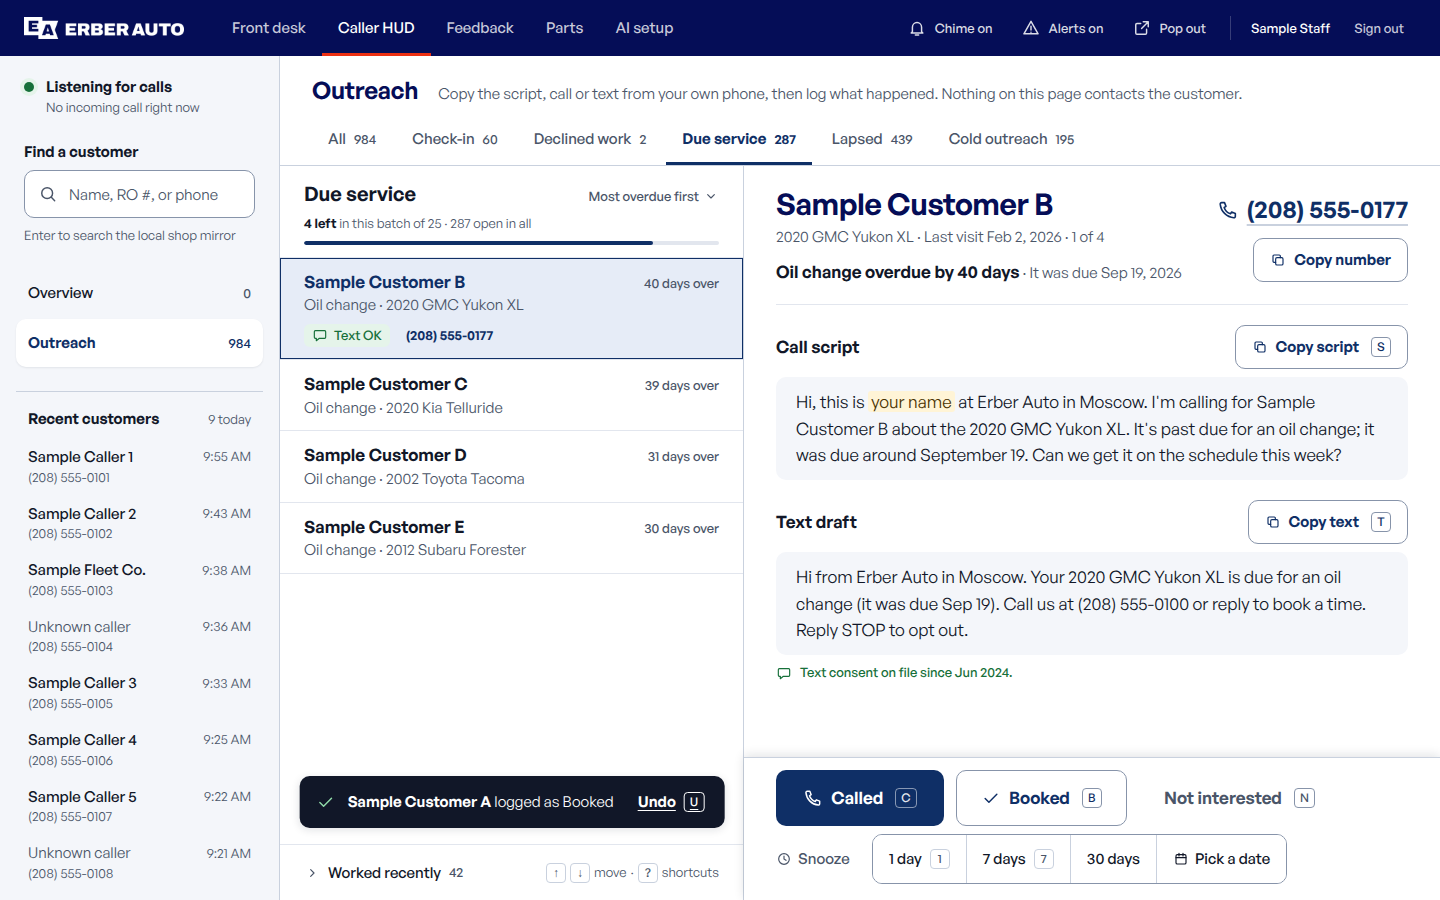
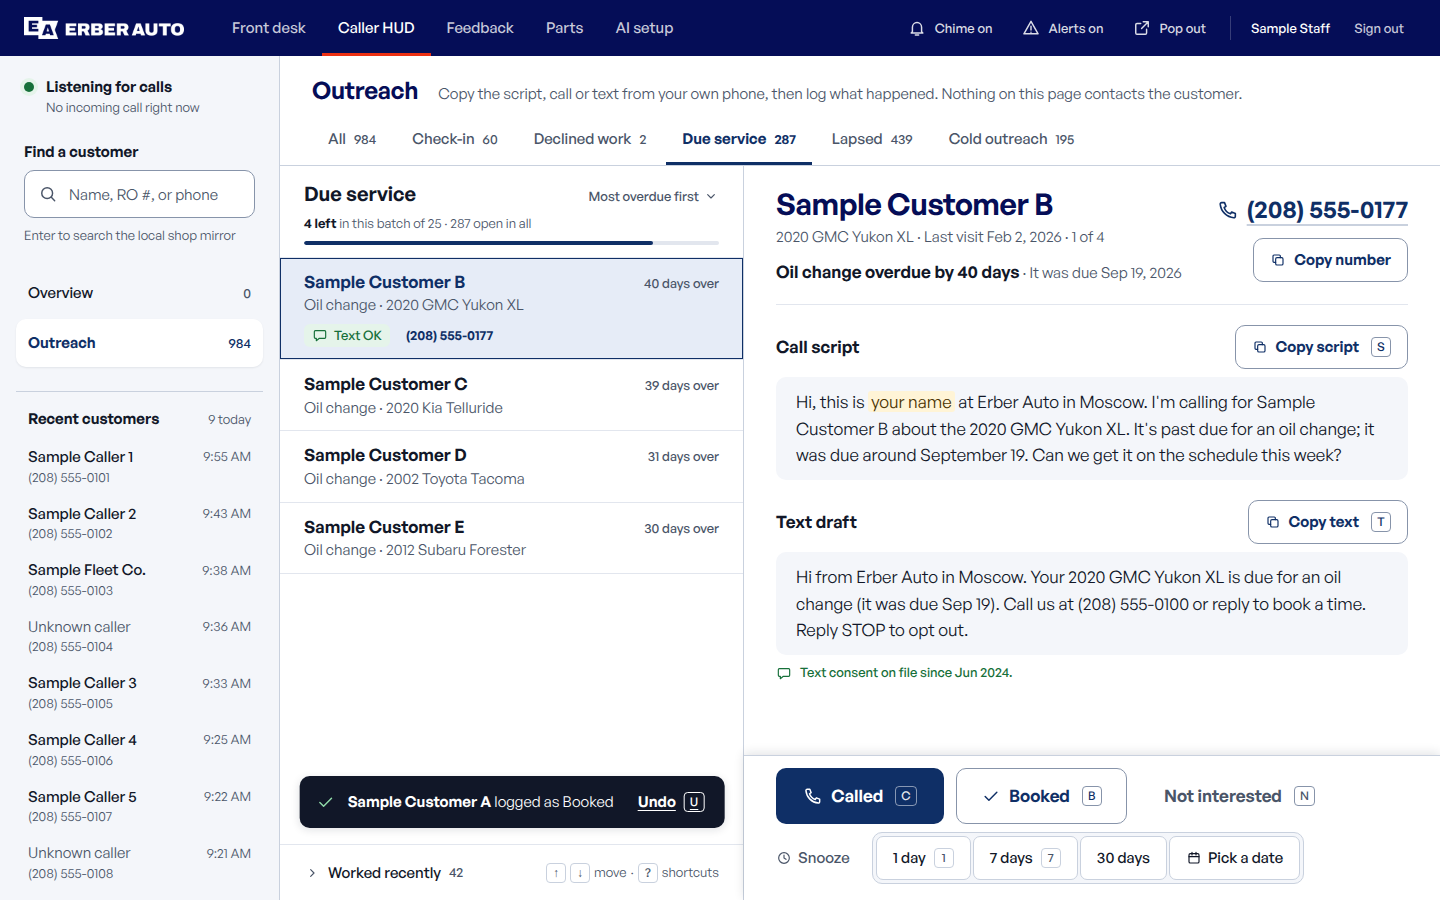
Hill-climb round 3: inset segmented snooze control

Changed region(s): [[0.5312, 0.84, 0.9062, 0.9644]]

diff --git a/outreach-review/mockup.css b/outreach-review/mockup.css
@@ -289,15 +289,14 @@ h1 { font-size: var(--text-xl); font-weight: var(--weight-semibold); line-height
 .actions-row .btn-primary { min-width: 168px; justify-content: center; }
 .snooze { display: flex; align-items: center; gap: var(--space-3); }
 .snooze-label { display: inline-flex; align-items: center; gap: 6px; font-weight: var(--weight-medium); color: var(--color-text-muted); min-width: 84px; }
-.seg { display: inline-flex; border: 1px solid var(--color-border-strong); border-radius: var(--radius-md); overflow: hidden; }
+.seg { display: inline-flex; gap: 2px; padding: 3px; background: var(--color-bg); border: 1px solid var(--color-border); border-radius: var(--radius-md); }
 .seg button {
   display: inline-flex; align-items: center; gap: 6px;
-  min-height: var(--tap-min); padding: 0 var(--space-4);
-  background: var(--color-surface); border: 0; border-left: 1px solid var(--color-border);
+  min-height: var(--tap-icon); padding: 0 var(--space-4);
+  background: var(--color-surface); border: 1px solid var(--color-border); border-radius: 7px;
   font-weight: var(--weight-medium); color: var(--color-text);
 }
-.seg button:first-child { border-left: 0; }
-.seg button:hover { background: var(--color-info-bg); color: var(--color-navy); }
+.seg button:hover { background: var(--color-info-bg); border-color: var(--color-navy); color: var(--color-navy); }
 .seg kbd { margin-left: 2px; color: var(--color-text-muted); border-color: var(--color-border); }
 
 /* ---------- Done ---------- */
